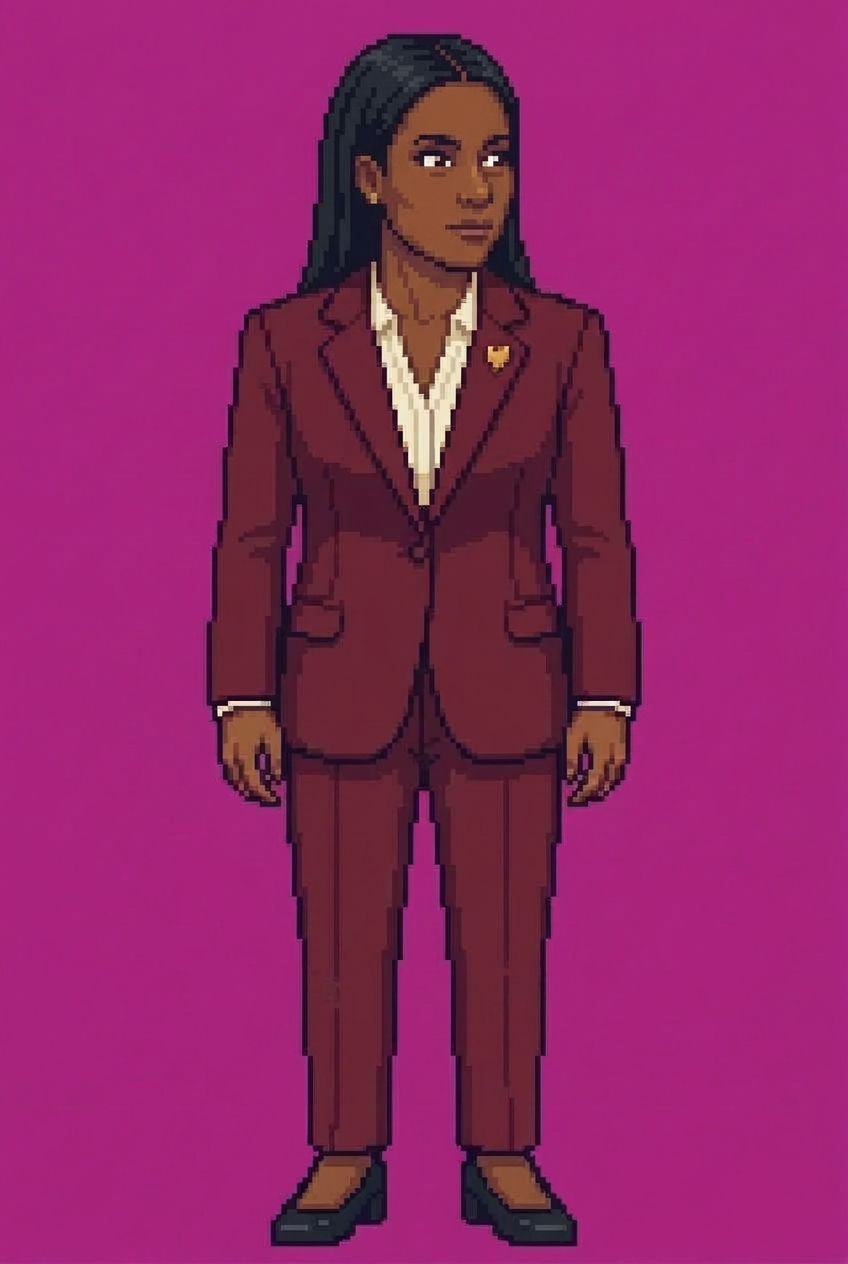
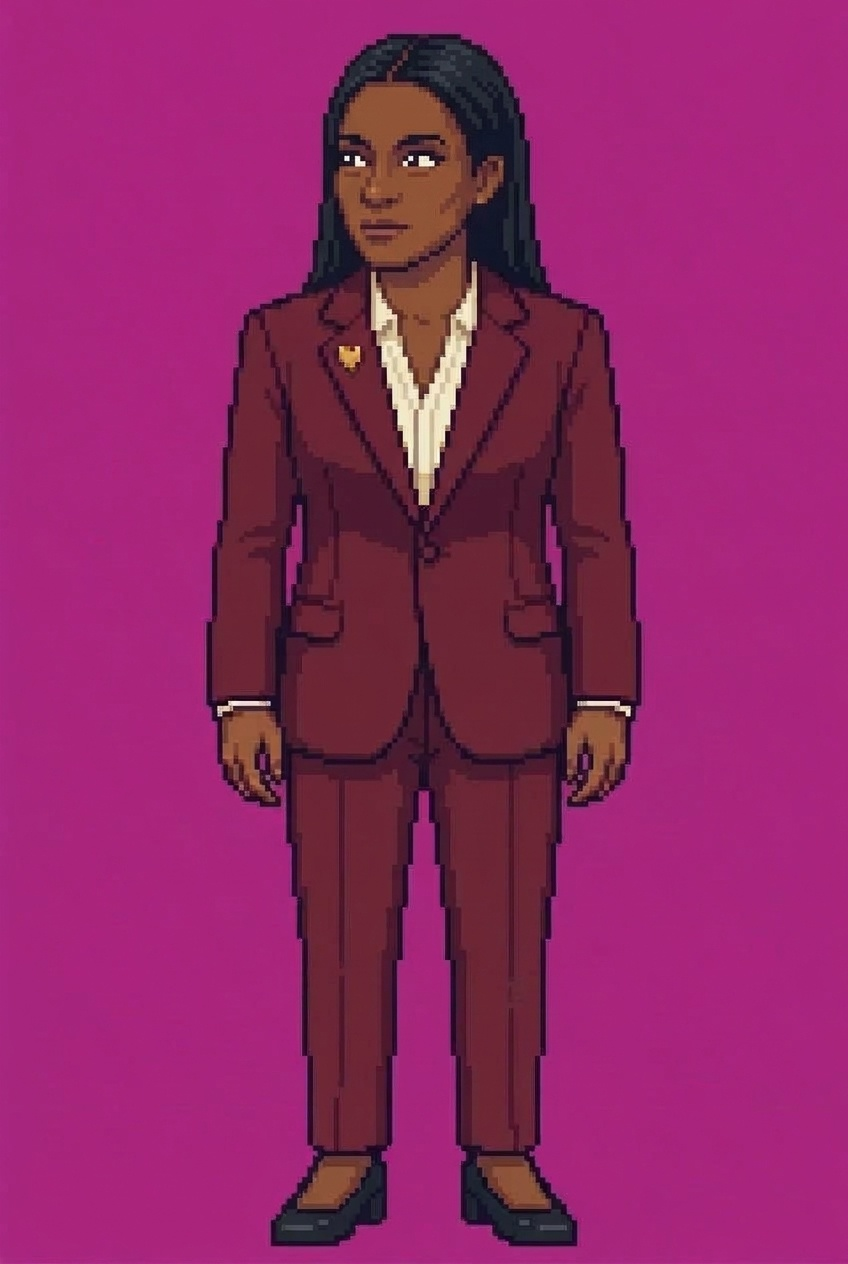
Kirsty standing h2 mirrored from h1, h2v* from the h1v* crops (#90)
Gemini turned standing h2 to the right edge like h1. h2 is now h1 flipped
(the figure is on the image centre), h2v1-h2v7 are the h1v* crops flipped,
and boxes.h2 mirrors boxes.h1. Five pass; h2v6 (pressed lips) barely
changes, and h2v7 trips the collar check, as a flipped crop would. Standing
round 2 needs no more Gemini frames.

diff --git a/art/presenters/kirsty/master-prompts.md b/art/presenters/kirsty/master-prompts.md
@@ -65,6 +65,8 @@ Look hardest at:
 - Every head frame: the hair behind the shoulders must not change.
 - The `v` crops: these read back as unchanged until the face boxes are set (`node tools/frames/face-boxes.mjs kirsty`, eyes from `v7`/`v9`, mouth from the rest), then `recheck`. Judge `v9` by eye and `approve --force`.
 
+**Standing `h2` went the wrong way (4 Nov), and it got past the contact sheet.** At sheet size a small turn either way looks plausible. It was caught only when the `h2v*` mouths changed on the same side as `h1`'s. Check a turn at full size: the ear that shows is on the side the head turns away from (`h1`, turning to the right edge, shows the left ear). The fix was the planned one: `h2.jpg` is `h1.jpg` flipped (the figure sits on the image centre, so no shift is needed), `h2v1`-`h2v7` are the `h1v*` crops flipped, and `boxes.h2` is `boxes.h1` mirrored on the 145-wide grid. The mirrored blink `h2v7` trips the outside-area check at the collar, because the jacket is not symmetrical, but the bake takes only the eye box from it. Seated `h2` was a real left turn.
+
 ## 4. Round 2 (14 frames)
 
 Once `h1` and `h2` are approved in a set, set `boxes.h1`/`boxes.h2` (`face-boxes.mjs <p> h1`, `... h2`), re-run `queue <p>`, and run `h1v1`-`h1v7`, `h2v1`-`h2v7` the same way (14 per set). Then tune `kirsty-seated/frames.json` the way Ross's was (tilt heads, register shift), and bake both into `site/public/presenters/kirsty{,-seated}`.
